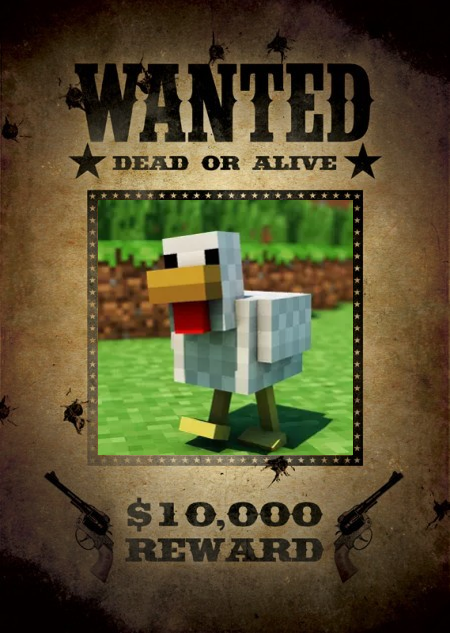
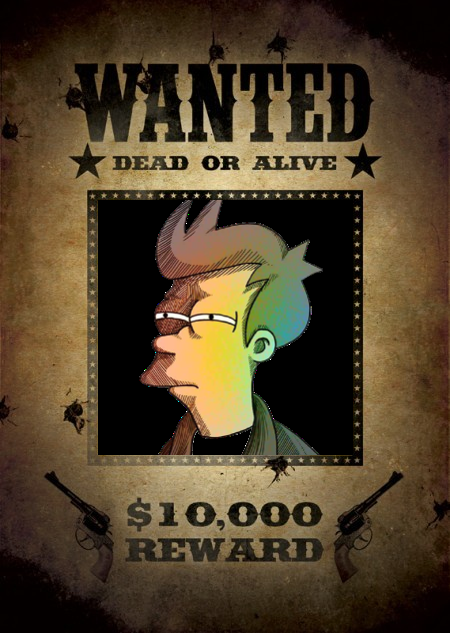
Fixed issues occured during migration

Changed region(s): [[0.2178, 0.3002, 0.8089, 0.7204]]

diff --git a/cogs/Moderator.py b/cogs/Moderator.py
@@ -1,7 +1,7 @@
-import discord
-from discord.ext import commands
+import nextcord
+from nextcord.ext import commands
 import asyncio
-from discord.ext.commands import MissingPermissions, has_permissions
+from nextcord.ext.commands import MissingPermissions, has_permissions
 
 
 class KickBan(commands.Cog):
@@ -9,9 +9,9 @@ class KickBan(commands.Cog):
         self.bot = bot
 
     @commands.command()
-    async def kick(self, ctx, member: discord.Member, *, reason=None):
+    async def kick(self, ctx, member: nextcord.Member, *, reason=None):
         await member.kick(reason=reason)
-        kick_embed = discord.Embed(title=f'Kicked from {ctx.guild.name}', description=f'{member.mention} was kicked.',
+        kick_embed = nextcord.Embed(title=f'Kicked from {ctx.guild.name}', description=f'{member.mention} was kicked.',
                                    color=0xf54242)
         kick_embed.add_field(name='Reason', value=reason)
         await ctx.send(embed=kick_embed)
@@ -23,9 +23,9 @@ class KickBan(commands.Cog):
 
     @commands.command()
     @commands.has_permissions(ban_members=True)
-    async def ban(self, ctx, member: discord.Member, *, reason=None):
+    async def ban(self, ctx, member: nextcord.Member, *, reason=None):
         await member.ban(reason=reason)
-        ban_embed = discord.Embed(title=f'Banned from {ctx.guild.name}',
+        ban_embed = nextcord.Embed(title=f'Banned from {ctx.guild.name}',
                                   description=f'{member.mention} was banned. <a:alert:861817910875389963>',
                                   color=0xf54242)
         ban_embed.add_field(name='Reason', value=reason)
@@ -40,7 +40,7 @@ class KickBan(commands.Cog):
     @commands.command()
     @commands.has_permissions(manage_messages=True)
     async def clear(self, ctx, number=0):
-        delete_embed = discord.Embed(title='Deleted', description=f'Deleted {number} messages')
+        delete_embed = nextcord.Embed(title='Deleted', description=f'Deleted {number} messages')
         if number == 0:
             await ctx.send('Please use the format eg: !clear 10')
 
@@ -56,10 +56,10 @@ class KickBan(commands.Cog):
             await ctx.send("You don't have manage_messages permission")
 
     @commands.command()
-    async def whois(self, ctx, member: discord.Member):
+    async def whois(self, ctx, member: nextcord.Member):
         join_date = member.joined_at.strftime('%A, %B %d, %Y')
-        embed = discord.Embed(title=f'Info of {member}', description=f'Joined on {join_date}')
-        pfp = member.avatar_url
+        embed = nextcord.Embed(title=f'Info of {member}', description=f'Joined on {join_date}')
+        pfp = member.display_avatar
         embed.set_thumbnail(url=pfp)
         embed.add_field(name='Username', value=str(member))
         date = member.created_at.strftime('%A, %B %d, %Y')
@@ -70,7 +70,8 @@ class KickBan(commands.Cog):
             roles.append(role.mention)
         roles = roles[1:]
         roles = ", ".join(roles)
-        embed.add_field(name='Roles', inline=False, value=roles)
+        if roles != '':
+            embed.add_field(name='Roles', inline=False, value=roles)
         await ctx.send(embed=embed)
 
 

diff --git a/cogs/Reaction Roles.py b/cogs/Reaction Roles.py
@@ -1,5 +1,5 @@
-import discord
-from discord.ext import commands
+import nextcord
+from nextcord.ext import commands
 
 
 class RR(commands.Cog):
@@ -14,7 +14,7 @@ class RR(commands.Cog):
             guild = member.guild
             emoji = payload.emoji.name
             if emoji == '1846_tik':
-                await member.add_roles(discord.utils.get(guild.roles, name='Member'))
+                await member.add_roles(nextcord.utils.get(guild.roles, name='Member'))
 
         msg_id2 = 851787854702837780
         if msg_id2 == payload.message_id:
@@ -22,21 +22,21 @@ class RR(commands.Cog):
             guild = member.guild
             emoji = payload.emoji.name
             if emoji == 'phasmo':
-                await member.add_roles(discord.utils.get(guild.roles, name='Phasmophobia'))
+                await member.add_roles(nextcord.utils.get(guild.roles, name='Phasmophobia'))
             if emoji == 'csgo':
-                await member.add_roles(discord.utils.get(guild.roles, name='CS : GO'))
+                await member.add_roles(nextcord.utils.get(guild.roles, name='CS : GO'))
             if emoji == 'Amongus_pog':
-                await member.add_roles(discord.utils.get(guild.roles, name='Among Us'))
+                await member.add_roles(nextcord.utils.get(guild.roles, name='Among Us'))
             if emoji == 'pubg':
-                await member.add_roles(discord.utils.get(guild.roles, name='Pubg'))
+                await member.add_roles(nextcord.utils.get(guild.roles, name='Pubg'))
             if emoji == 'MTA':
-                await member.add_roles(discord.utils.get(guild.roles, name='MTA'))
+                await member.add_roles(nextcord.utils.get(guild.roles, name='MTA'))
             if emoji == 'fortnite':
-                await member.add_roles(discord.utils.get(guild.roles, name='Fortnite'))
+                await member.add_roles(nextcord.utils.get(guild.roles, name='Fortnite'))
             if emoji == '6853_Valorant':
-                await member.add_roles(discord.utils.get(guild.roles, name='Valorant'))
+                await member.add_roles(nextcord.utils.get(guild.roles, name='Valorant'))
             if emoji == '1987_Minecraft':
-                await member.add_roles(discord.utils.get(guild.roles, name='Minecraft'))
+                await member.add_roles(nextcord.utils.get(guild.roles, name='Minecraft'))
 
 
 def setup(bot):

diff --git a/cogs/simple commands.py b/cogs/simple commands.py
@@ -1,5 +1,5 @@
-import discord
-from discord.ext import commands
+import nextcord
+from nextcord.ext import commands
 import random
 
 
@@ -34,10 +34,10 @@ class Simple(commands.Cog):
             await ctx.send(arg)
 
     @commands.command()
-    async def dm(self, ctx, member: discord.Member, *, msg):
-        dm_embed = discord.Embed(title=msg, description=f'DM from {ctx.author}')
+    async def dm(self, ctx, member: nextcord.Member, *, msg):
+        dm_embed = nextcord.Embed(title=msg, description=f'DM from {ctx.author}')
         await member.send(embed=dm_embed)
-        embed = discord.Embed(title=f'Messaged {member}', description=msg)
+        embed = nextcord.Embed(title=f'Messaged {member}', description=msg)
         embed.set_footer(text=f'Requested by {ctx.author}')
         await ctx.send(embed=embed)
         await ctx.message.delete()
@@ -46,7 +46,7 @@ class Simple(commands.Cog):
     @dm.error
     async def dm_error(self, ctx, error):
         if isinstance(error, commands.MemberNotFound):
-            embed = discord.Embed(title='Error',
+            embed = nextcord.Embed(title='Error',
                                   description='You either mentioned a non-existing member or format was wrong',
                                   colour=0xf54242)
             embed.add_field(name='Format', value='!dm @StinkyKronos Hello', inline=False)
@@ -56,9 +56,9 @@ class Simple(commands.Cog):
     async def toss(self, ctx):
         choice = ('head', 'tail')
         bot_decision = random.choice(choice)
-        embed_head = discord.Embed(title='**Head**')
+        embed_head = nextcord.Embed(title='**Head**')
         embed_head.set_image(url='https://i.ibb.co/qWfnH1Y/Head.png')
-        embed_tail = discord.Embed(title='**Tail**')
+        embed_tail = nextcord.Embed(title='**Tail**')
         embed_tail.set_image(url='https://i.ibb.co/whTB4cj/Tail.png')
         if bot_decision == 'head':
             await ctx.send(embed=embed_head)

diff --git a/cogs/Image Manipulation.py b/cogs/Image Manipulation.py
@@ -1,6 +1,6 @@
 from PIL import Image
-import discord
-from discord.ext import commands
+import nextcord
+from nextcord.ext import commands
 from io import BytesIO
 
 
@@ -9,13 +9,13 @@ class ImageManipulation(commands.Cog):
         self.bot = bot
 
     @commands.command()
-    async def wanted(self, ctx, member: discord.Member = ''):
+    async def wanted(self, ctx, member: nextcord.Member = ''):
         if member == '':
             member = ctx.author
 
         wanted = Image.open('Images/Wanted.jpg')
 
-        asset = member.avatar_url_as(size=256)
+        asset = member.display_avatar.with_size(256)
         data = BytesIO(await asset.read())
 
         pfp = Image.open(data)
@@ -23,22 +23,22 @@ class ImageManipulation(commands.Cog):
         pfp = pfp.resize((255, 255))
         wanted.paste(pfp, (98, 200))
         wanted.save('Images/result_wanted.png')
-        await ctx.send(file=discord.File('Images/result_wanted.png'))
+        await ctx.send(file=nextcord.File('Images/result_wanted.png'))
 
     @commands.command()
-    async def worthless(self, ctx, member: discord.Member = None):
+    async def worthless(self, ctx, member: nextcord.Member = None):
         if member is None:
             member = ctx.author
 
         meme = Image.open('Images/meme.jpg')
-        pfp_asset = member.avatar_url_as(size=128)
+        pfp_asset = member.display_avatar.with_size(128)
         data = BytesIO(await pfp_asset.read())
         pfp = Image.open(data)
         pfp.resize((100, 100))
         meme.paste(pfp, (160, 80))
         meme.save('Images/result_meme.png')
 
-        await ctx.send(file=discord.File('Images/result_meme.png'))
+        await ctx.send(file=nextcord.File('Images/result_meme.png'))
 
 
 def setup(bot):

diff --git a/cogs/rps.py b/cogs/rps.py
@@ -1,5 +1,5 @@
-import discord
-from discord.ext import commands
+import nextcord
+from nextcord.ext import commands
 import random
 RPS_START = False
 RPS_AUTHOR = None
@@ -17,7 +17,7 @@ class RPS(commands.Cog):
     async def rps(self, ctx):
         global RPS_START, RPS_AUTHOR, channel, msg
         channel = ctx.channel
-        embed = discord.Embed(title="**Rock Paper Scissor**")
+        embed = nextcord.Embed(title="**Rock Paper Scissor**")
         msg = await ctx.send(embed=embed)
         await msg.add_reaction('🪨')
         await msg.add_reaction('📰')
@@ -57,16 +57,16 @@ class RPS(commands.Cog):
             elif human_decision == 'scissor' and bot_decision == 'rock':
                 reply = 'lost'
 
-        embed_win = discord.Embed(title='**Victory**',
+        embed_win = nextcord.Embed(title='**Victory**',
                                   description=f'I chose **{bot_decision}** and {RPS_AUTHOR} chose **{human_decision}**',
                                   color=0x42f557)
         embed_win.set_footer(text=payload.member)
-        embed_lost = discord.Embed(title='**Lost**',
+        embed_lost = nextcord.Embed(title='**Lost**',
                                    description=
                                    f'I chose **{bot_decision}** and {RPS_AUTHOR} chose **{human_decision}**',
                                    color=0xf54242)
         embed_lost.set_footer(text=payload.member)
-        embed_tie = discord.Embed(title='**Tie**',
+        embed_tie = nextcord.Embed(title='**Tie**',
                                   description=
                                   f'I chose **{bot_decision}** and {RPS_AUTHOR} chose **{human_decision}**',
                                   color=0xffcc00)

diff --git a/cogs/Dice.py b/cogs/Dice.py
@@ -1,5 +1,5 @@
-import discord
-from discord.ext import commands
+import nextcord
+from nextcord.ext import commands
 import random
 
 
@@ -10,17 +10,17 @@ class Dice(commands.Cog):
     @commands.command()
     async def dice(self, ctx):
         dice = random.randint(1, 6)
-        embed_1 = discord.Embed(title=f'Rolled a {dice}')
+        embed_1 = nextcord.Embed(title=f'Rolled a {dice}')
         embed_1.set_image(url='https://i.ibb.co/R67Z1NG/Dice1.jpg')
-        embed_2 = discord.Embed(title=f'Rolled a {dice}')
+        embed_2 = nextcord.Embed(title=f'Rolled a {dice}')
         embed_2.set_image(url='https://i.ibb.co/cJkp7Nb/Dice2.jpg')
-        embed_3 = discord.Embed(title=f'Rolled a {dice}')
+        embed_3 = nextcord.Embed(title=f'Rolled a {dice}')
         embed_3.set_image(url='https://i.ibb.co/HnnZX67/Dice3.jpg')
-        embed_4 = discord.Embed(title=f'Rolled a {dice}')
+        embed_4 = nextcord.Embed(title=f'Rolled a {dice}')
         embed_4.set_image(url='https://i.ibb.co/XS8Trz8/Dice4.jpg')
-        embed_5 = discord.Embed(title=f'Rolled a {dice}')
+        embed_5 = nextcord.Embed(title=f'Rolled a {dice}')
         embed_5.set_image(url='https://i.ibb.co/GJDRDj6/Dice5.jpg')
-        embed_6 = discord.Embed(title=f'Rolled a {dice}')
+        embed_6 = nextcord.Embed(title=f'Rolled a {dice}')
         embed_6.set_image(url='https://i.ibb.co/mtWgTr1/Dice6.jpg')
         if dice == 1:
             await ctx.send(embed=embed_1)

diff --git a/cogs/help.py b/cogs/help.py
@@ -1,7 +1,7 @@
 import asyncio
-import discord
-from discord.ext import commands
-from discord.ext.commands import CommandNotFound
+import nextcord
+from nextcord.ext import commands
+from nextcord.ext.commands import CommandNotFound
 
 
 class Help(commands.Cog):
@@ -10,7 +10,7 @@ class Help(commands.Cog):
 
     @commands.command()
     async def help(self, ctx):
-        embed = discord.Embed(title="Help", color=0x00c6ff)
+        embed = nextcord.Embed(title="Help", color=0x00c6ff)
         embed.add_field(name='Commands:', value='''
         - **!rps**
         - **!toss**
@@ -41,7 +41,7 @@ class Help(commands.Cog):
     @commands.Cog.listener()
     async def on_command_error(self, ctx, error):
         if isinstance(error, CommandNotFound):
-            embed = discord.Embed(title='Command not Found', description='Use !help to see usable commands',
+            embed = nextcord.Embed(title='Command not Found', description='Use !help to see usable commands',
                                   colour=0xf54242)
             msg = await ctx.send(embed=embed)
             await asyncio.sleep(5)

diff --git a/cogs/on_ready.py b/cogs/on_ready.py
@@ -1,5 +1,5 @@
-import discord
-from discord.ext import commands
+import nextcord
+from nextcord.ext import commands
 import asyncio
 
 
@@ -12,9 +12,9 @@ class Ready(commands.Cog):
         print("|BOT IS UP AND RUNNING|")
         # while 1:
         #     await self.bot.change_presence(
-        #         activity=discord.Activity(type=discord.ActivityType.watching, name="Yo Momma!"))
+        #         activity=nextcord.Activity(type=nextcord.ActivityType.watching, name="Yo Momma!"))
         #     await asyncio.sleep(5)
-        #     await self.bot.change_presence(activity=discord.Activity(type=discord.ActivityType.listening, name="!help"))
+        #     await self.bot.change_presence(activity=nextcord.Activity(type=nextcord.ActivityType.listening, name="!help"))
         #     await asyncio.sleep(5)
 
 

diff --git a/cogs/8ball.py b/cogs/8ball.py
@@ -1,5 +1,5 @@
-import discord
-from discord.ext import commands
+import nextcord
+from nextcord.ext import commands
 import random
 
 answers = ["It is certain",
@@ -34,7 +34,7 @@ class Eight(commands.Cog):
             await ctx.send('Use format **!8ball <question>**')
         else:
             decision = random.choice(answers)
-            embed = discord.Embed(title='__8Ball__')
+            embed = nextcord.Embed(title='__8Ball__')
             embed.add_field(name=f'{question}?', value=decision)
             await ctx.send(embed=embed)
 

diff --git a/cogs/music.py b/cogs/music.py
@@ -1,4 +1,4 @@
-import discord
+import nextcord
 import nextcord
 from nextcord.ext import commands
 import youtube_dl
@@ -28,7 +28,7 @@ class music(commands.Cog):
             source = await nextcord.FFmpegOpusAudio.from_probe(uri, **ffmpeg_options)
 
             vc.play(source)
-            await self.bot.change_presence(activity=discord.Activity(type=discord.ActivityType.playing, name=songTitle))
+            await self.bot.change_presence(activity=nextcord.Activity(type=nextcord.ActivityType.playing, name=songTitle))
 
 
 

diff --git a/main.py b/main.py
@@ -1,10 +1,10 @@
-import discord
-from discord.ext import commands
+import nextcord
+from nextcord.ext import commands
 import os
 from dotenv import load_dotenv
 
 
-intents = discord.Intents.default()
+intents = nextcord.Intents.default()
 intents.members = True
 
 load_dotenv()

diff --git a/cogs/TicTacToe.py b/cogs/TicTacToe.py
@@ -1,5 +1,5 @@
-import discord
-from discord.ext import commands
+import nextcord
+from nextcord.ext import commands
 
 
 
